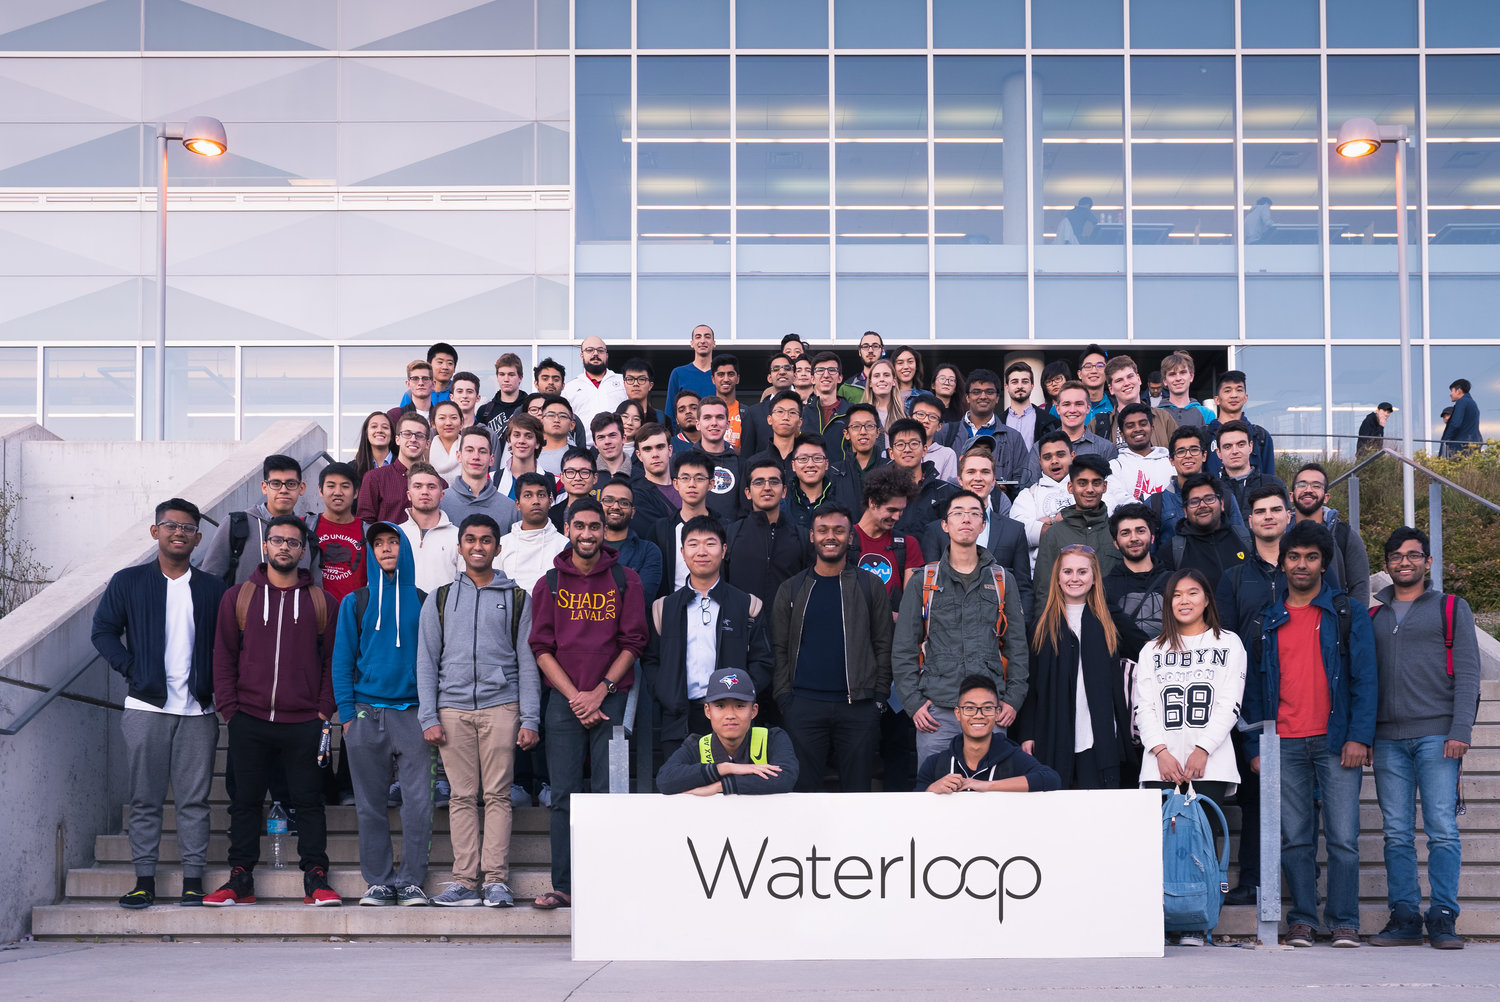
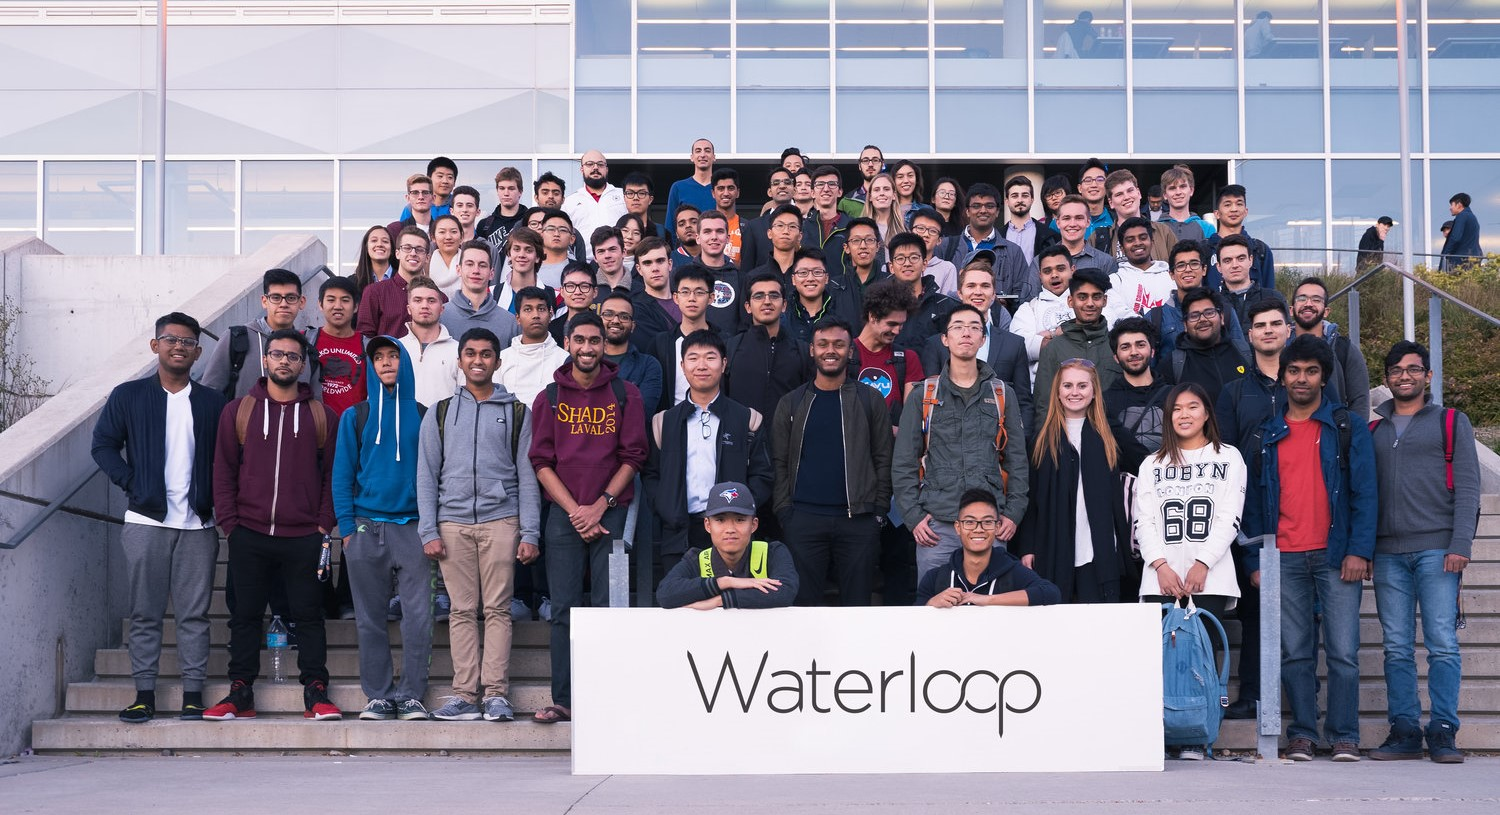
Created header for sponsor page

diff --git a/src/components/Sponsors/Sponsors.css b/src/components/Sponsors/Sponsors.css
@@ -1,10 +1,12 @@
-.sponsorBody {
-  width: 100%;
+.sponsorThanks {
+  max-width: 1040px;
+  margin: auto;
 }
 
-.sponsorHeader {
-
-  display: block;
+.sponsorHeader h2 {
+  position: relative;
+  font-weight: 500;
+  font-size: 175%;
 }
 
 .sponsor-bg {
@@ -14,9 +16,16 @@
   left: 0;
   width: 100%;
   background-image:
-    linear-gradient(to bottom, rgba(17,17,17,0.95), rgba(255,213,79,0.5)),
+    linear-gradient(to bottom, rgba(17,17,17,0.95), rgba(255,213,79,0.4)),
     url('assets/teamphoto.jpg');
+  background-repeat: no-repeat;
+  background-size: cover;
   height: 50%;
+}
+
+.sponsorBody {
+  width: 100%;
+  margin-top: 15%;
 }
 
 .sponsors {

diff --git a/src/components/Sponsors/Sponsors.js b/src/components/Sponsors/Sponsors.js
@@ -7,12 +7,14 @@ import SpaceX from './assets/sponsor_spacex.png';
 class Sponsors extends Component {
 	render() {
 		return (
-			<div>
+			<div className='all'>
 				<div className='sponsorHeader'>
 					<div className='sponsor-bg'></div>
-					<h2>Thank you,<br/>
-							from the Waterloop team.
-					</h2>
+					<div className='sponsorThanks'>
+						<h2>Thank you,<br/>
+								from the Waterloop team.
+						</h2>
+					</div>
 				</div>
 				<div className='sponsorBody'>
 					<div className='sponsors'>
